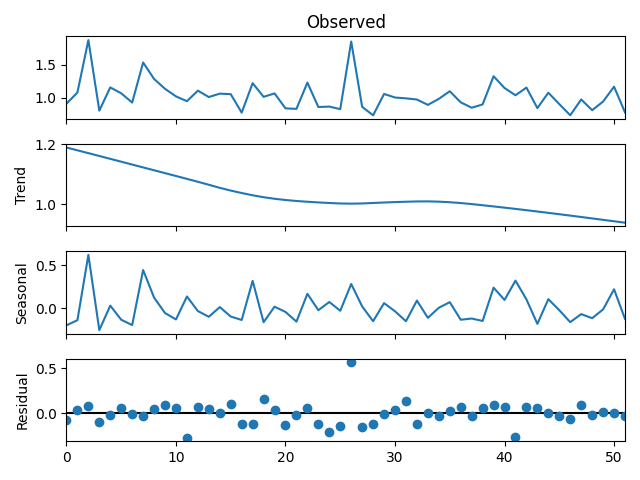
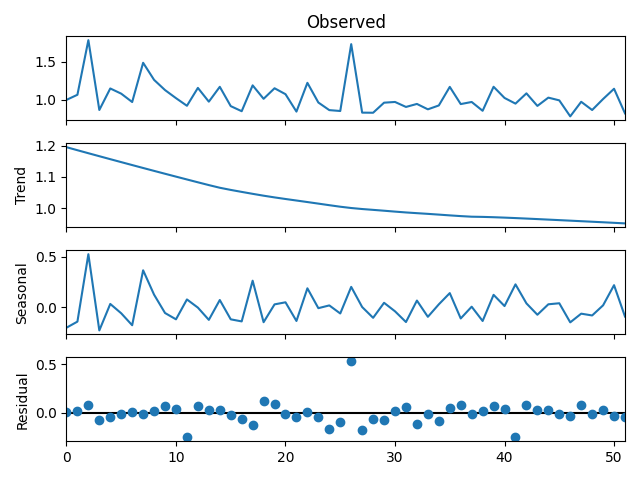
0.2 task_id

diff --git a/behaviour_datasets/reader.py b/behaviour_datasets/reader.py
@@ -4,7 +4,7 @@ import csv
 # reading csv data
 class CsvReader:
     def __init__(self, path):
-        self.target_columns = ["PID", "RES_DURATION", "RES_HAND", "PNG_NAME", "AUTHOR_GENDER"]
+        self.target_columns = ["PID", "RES_DURATION", "RES_HAND", "PNG_NAME", "AUTHOR_GENDER", "VERSION"]
         with open(path, "r", encoding="utf-8") as file:
             self.reader = csv.DictReader(file)
             self.selected_data = []
@@ -23,7 +23,7 @@ class CsvReader:
         # print(self.selected_data)
 
     # change selected data to raw data
-    def extract_raw_data(self):
+    def extract_raw_data(self, task_path):
         self.remove_na_row()
         participant_list = []
         # recording process
@@ -40,13 +40,44 @@ class CsvReader:
             else:
                 acc = 0
             # digitalizing task id
-            task_id = int(row["PNG_NAME"].split(".")[0])
-            if row["AUTHOR_GENDER"] == "M":
-                task_id += 60
-            elif row["AUTHOR_GENDER"] == "C":
-                task_id += 120
+            tm = TaskMapping(task_path)
+            task_id = tm.get_task_id(int(row["PNG_NAME"].split(".")[0]), int(row["VERSION"]))
+            # task_id = int(row["PNG_NAME"].split(".")[0])
+            # if row["AUTHOR_GENDER"] == "M":
+            #     task_id += 60
+            # elif row["AUTHOR_GENDER"] == "C":
+            #     task_id += 120
             participant_list[-1].add_answer(response, acc, task_id)
         return RawData(participant_list)
+
+
+class TaskMapping:
+    def __init__(self, path):
+        self.target_columns = ["v1_stimuli_name", "v2_stimuli_name"]
+        with open(path, "r", encoding="utf-8") as file:
+            self.reader = csv.DictReader(file)
+            self.selected_data = []
+            for row in self.reader:
+                selected_row = {col: row[col] for col in self.target_columns}
+                self.selected_data.append(selected_row)
+            # print(self.selected_data)
+        # reform data
+        task_cnt = len(self.selected_data)
+        self.v1_tasks = [0 for _ in range(task_cnt)]
+        self.v2_tasks = [0 for _ in range(task_cnt)]
+        for i in range(task_cnt):
+            self.v1_tasks[int(self.selected_data[i]["v1_stimuli_name"].split(".")[0])] = i
+            self.v2_tasks[int(self.selected_data[i]["v2_stimuli_name"].split(".")[0])] = i
+        # print(self.v1_tasks)
+        # print(self.v2_tasks)
+
+    def get_task_id(self, png_id, version):
+        if version == 1:
+            return self.v1_tasks[png_id]
+        elif version == 2:
+            return self.v2_tasks[png_id] + 60
+        else:
+            return -1
 
 
 # recording behaviours of each participant
@@ -72,10 +103,10 @@ class RawData:
         for p in self.participants:
             p.display()
 
-    def average(self):
-        sum_rt = [0] * 180
-        sum_acc = [0] * 180
-        cnt_task = [0] * 180
+    def average(self, task_length=120):
+        sum_rt = [0] * task_length
+        sum_acc = [0] * task_length
+        cnt_task = [0] * task_length
         for p in self.participants:
             for ans in p.answers:
                 cnt_task[ans["task"]] += 1
@@ -83,7 +114,7 @@ class RawData:
                 sum_acc[ans["task"]] += ans["accept"]
         ave_rt = []
         ave_acc = []
-        for i in range(180):
+        for i in range(task_length):
             if cnt_task[i] > 0:
                 ave_rt.append(sum_rt[i] / cnt_task[i])
                 ave_acc.append(sum_acc[i] / cnt_task[i])
@@ -92,13 +123,14 @@ class RawData:
                 ave_acc.append(-1)
         return {"response_time": ave_rt, "acceptance": ave_acc}
 
-    def summary(self):
-        sum_rt = [[] for _ in range(180)]
-        sum_acc = [[] for _ in range(180)]
-        cnt_task = [0] * 180
+    def summary(self, task_length=120):
+        sum_rt = [[] for _ in range(task_length)]
+        sum_acc = [[] for _ in range(task_length)]
+        cnt_task = [0] * task_length
         for p in self.participants:
             for ans in p.answers:
                 cnt_task[ans["task"]] += 1
                 sum_rt[ans["task"]].append(ans["time"])
                 sum_acc[ans["task"]].append(ans["accept"])
         return {"response_time": sum_rt, "acceptance": sum_acc, "count": cnt_task}
+

diff --git a/behaviour_datasets/data.py b/behaviour_datasets/data.py
@@ -9,7 +9,7 @@ import matplotlib.pyplot as plt
 
 class Data:
     def __init__(self, path):
-        self.rd = reader.CsvReader(path).extract_raw_data()
+        self.rd = reader.CsvReader(path).extract_raw_data("tasks.csv")
         self.participants = []
         # offset task difficulty and gender bias
         average = self.rd.average()
@@ -26,14 +26,14 @@ class Data:
                 if ave_rt > -1:
                     self.participants[-1].add_answer(ans["time"] / ave_rt, round(ans["accept"]), task_id)
 
-    def check_normality(self, alpha = 0.05):
-        rt_list = self.rd.summary()["response_time"]
-        for i in range(180):
-            if len(rt_list[i]) > 3:
-                stat, p = stats.shapiro(rt_list[i])
-                print(str(i) + f": p value: {p:.4f}", "-> yes" if p > alpha else "-> no")
-            else:
-                print(str(i) + ": Data must be at least length 3.")
+    # def check_normality(self, alpha=0.05):
+    #     rt_list = self.rd.summary()["response_time"]
+    #     for i in range(120):
+    #         if len(rt_list[i]) > 3:
+    #             stat, p = stats.shapiro(rt_list[i])
+    #             print(str(i) + f": p value: {p:.4f}", "-> yes" if p > alpha else "-> no")
+    #         else:
+    #             print(str(i) + ": Data must be at least length 3.")
 
     def display(self):
         for p in self.participants:
@@ -164,13 +164,17 @@ class Analysis:
 
     def ols_regression(self, window_size=6):
         coef_buffer = [[] for _ in range(window_size + 3)]
+        pid_buffer = [[] for _ in range(window_size + 3)]
         for pid in range(len(self.eff)):
             coef, p_value = self.get_ols_result(pid, window_size)
             for i in range(window_size + 3):
                 if p_value[i] < 0.05:
                     coef_buffer[i].append(coef[i])
+                    pid_buffer[i].append(pid)
         for c_vec in coef_buffer:
             print(c_vec)
+        for p_vec in pid_buffer:
+            print(p_vec)
         for c_vec in coef_buffer:
             print(f"average: {sum(c_vec) / len(c_vec):.4f}, cnt: {len(c_vec)}")
 
@@ -178,6 +182,6 @@ class Analysis:
 # run analysis
 a = Analysis(Data("full_info.csv").response_time())
 # trend
-# a.slt_decomposition()
+a.slt_decomposition()
 # linear model
 a.ols_regression()

diff --git a/behaviour_datasets/test_reader.py b/behaviour_datasets/test_reader.py
@@ -1,4 +1,31 @@
 import reader
 
 # test
-print(reader.CsvReader("full_info.csv").extract_raw_data().average())
+# acc = reader.CsvReader("full_info.csv").extract_raw_data().average()["acceptance"]
+
+# test task mapping
+tm = reader.TaskMapping("tasks.csv")
+print(tm.get_task_id(5, 1))
+print(tm.get_task_id(19, 2))
+
+# test csv reader with task mapping
+cr = reader.CsvReader("full_info.csv")
+# cr.remove_na_row()
+rw = cr.extract_raw_data("tasks.csv")
+rw.display()
+
+
+# a_vec = [0] * 3
+# for a in acc:
+#     if a == -1:
+#         continue
+#     elif a < 0.2:
+#         a_vec[0] += 1
+#     elif a < 0.75:
+#         a_vec[1] += 1
+#     else:
+#         a_vec[2] += 1
+#
+# print(acc)
+# print(a_vec)
+
